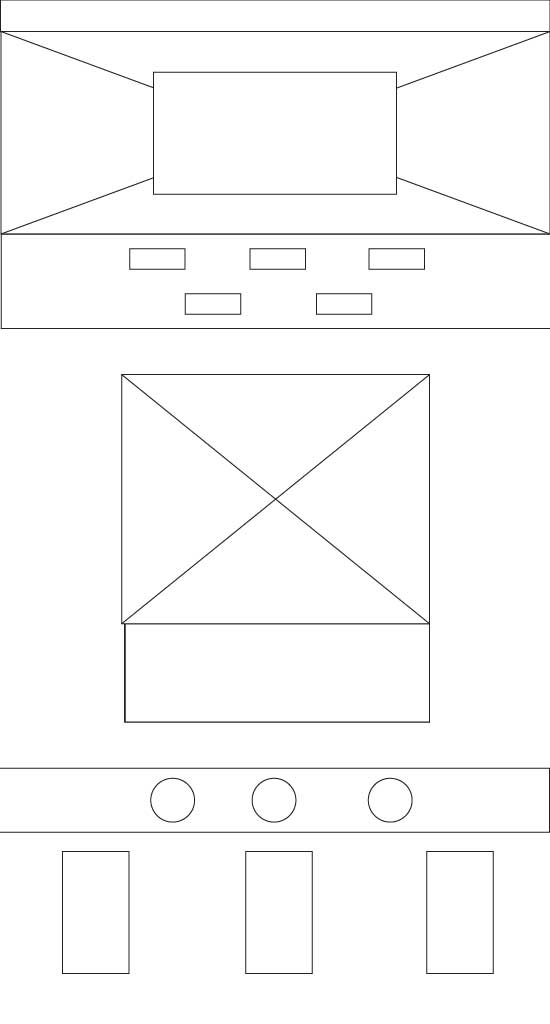
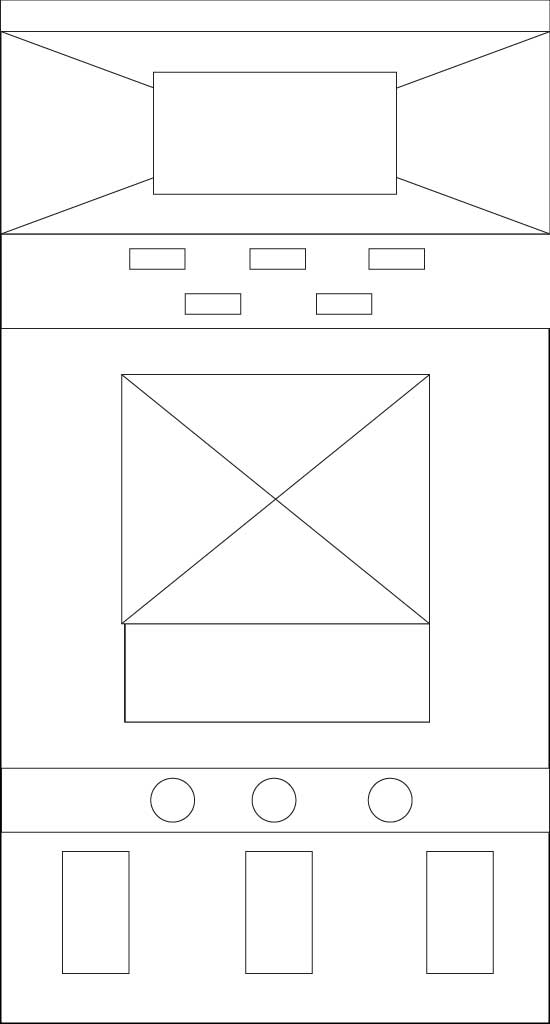
searched image bug fixed

Changed region(s): [[0.0, 0.3125, 0.0309, 1.0], [0.9891, 0.3125, 1.0, 0.75], [0.9891, 0.8125, 1.0, 1.0]]

diff --git a/templates/products.html b/templates/products.html
@@ -36,10 +36,10 @@
             {% for product in products %}
                     <div class="col-lg-3 col-sm-6 mb-4">
                         <div class="card h-60">
-                            <div>
+                            <div class="">
                                 <a href="/selected-product/{{ product.id }}">
                                 {% if product.product_photoURL %}           
-                                    <img class="card-img-top imageHeight img-fluid" src="{{ product.product_photoURL }}" alt=" Item photo">
+                                    <img class="card-img-top imageHeight img-fluid" src="{{ product.product_photoURL }}" alt=" Item image">
                                 {% else %}
                                     <img class="card-img-top imageHeight img-fluid" src="{{ url_for('static', filename='images/blank-img.jpg') }}" alt=" Item photo">
                                 </a>
@@ -61,31 +61,28 @@
 </section>
 <!--SEARCHED RESULT SECTION-->
 <section class="container">
-    <a href="#searchedResult"></a>
     <div id="results" style="display: none" class="row justify-content-start">
-        <div class="col-12 text-center">
+        <div class="col-12 my-auto text-center">
             <h2 class="Titles">Searched result</h2>
         </div>
-        <a href="#">
-            <div class="col-lg-3 col-sm-6 mb-4">
-                <div class="card h-60">
-                    <a href="#">
-                        <img class="card-img-top" id="product_photoURL" src="{{ product_photoURL }}" alt="">
-                    </a>
-                    <div class="card-body" style="padding-top: 5px; padding-bottom: 5px;">
-                        <h5 class="card-title" style="margin-bottom: 5px;">
-                            <span id="product_name"></span>
-                        </h5>
-                        <h6>
-                            <span id="product_price"></span>
-                        </h6>
-                        <P>
-                            <span id="product_description"></span>
-                        </P>
-                    </div>
+        <div class="col-lg-3 col-sm-6 mb-4">
+            <div class="card h-60">
+                <a href="#">
+                    <img class="card-img-top imageHeight img-fluid" id="product-Image" alt="">
+                </a>
+                <div class="card-body" style="padding-top: 5px; padding-bottom: 5px;">
+                    <h5 class="card-title" style="margin-bottom: 5px;">
+                        <span id="product_name"></span>
+                    </h5>
+                    <h6>
+                        <span id="product_price"></span>
+                    </h6>
+                    <P>
+                        <span id="product_description"></span>
+                    </P>
                 </div>
             </div>
-        </a>
+        </div>
     </div>
 </section>
 <!--HOW IT WORKS SECTION-->

diff --git a/templates/base.html b/templates/base.html
@@ -27,7 +27,7 @@
     <header>
         <body>
             <!-- Navigation-->
-            <nav class="navbar navbar-expand-lg navbar-dark bg-dark fixed-top">
+            <nav class="navbar navbar-expand-lg navbar-dark bg-dark">
                 <div class="container">
                     <a class="navbar-brand" href="{{ url_for('get_products') }}">marketSquare</a>
                     <button class="navbar-toggler" type="button" data-toggle="collapse" data-target="#navbarResponsive" aria-controls="navbarResponsive" aria-expanded="false" aria-label="Toggle navigation">
@@ -69,8 +69,8 @@
         {% with messages = get_flashed_messages() %}
             {% if messages %}
                 {% for message in messages %}
-                    <div class="row flashes">
-                        <h4 class="light-blue lighten-4 center-align">{{ message }}</h4>
+                    <div class="row justify-content-center alert-success flashes">
+                        <h4 class="text-center">{{ message }}</h4>
                     </div>
                 {% endfor %}
             {% endif %}

diff --git a/templates/categoryProducts.html b/templates/categoryProducts.html
@@ -28,7 +28,13 @@
         {% for product in products %}
             <div class="col-lg-3 col-sm-6 mb-4">
                 <div class="card h-60">
-                    <a href="/selected-product/{{ product.id }}"><img class="card-img-top imageHeight img-fluid" src="{{ product.product_photoURL }}" alt="" /></a>
+                    <a href="/selected-product/{{ product.id }}">
+                        {% if product.product_photoURL %} 
+                            <img class="card-img-top imageHeight img-fluid" src="{{ product.product_photoURL }}" alt="" />
+                        {% else %}
+                            <img class="card-img-top imageHeight img-fluid" src="{{ url_for('static', filename='images/blank-img.jpg') }}" alt="" />
+                        {% endif %}    
+                    </a>
                     <div class="card-body" style="padding-top: 5px; padding-bottom: 5px;">
                         <h5 class="card-title" style="margin-bottom: 5px;">
                             {{product.product_name}}

diff --git a/templates/listing_page.html b/templates/listing_page.html
@@ -73,7 +73,7 @@
 </div>
 <section class="container-fluid">
     <div class="row howToSection justify-content-center">
-        <h2 class="col-12 col-md-12 my-auto Titles text-center">How It Works</h2>
+        <h2 class="col-12 col-md-12 my-auto Titles text-center" style="padding-top: 20px;">How It Works</h2>
         <div class="col-12 col-md-3 my-auto text-center" style="padding-top: 30px; padding-bottom: 30px;">
             <div class="searchItem mx-auto"></div>
             <p>Search for items</p>
@@ -88,5 +88,4 @@
         </div>
     </div>
 </section>
-
 {% endblock %}

diff --git a/static/js/script.js b/static/js/script.js
@@ -37,7 +37,8 @@ searchForm.addEventListener('submit', (e) => {
             document.getElementById("product_name").innerHTML = product["product_name"]
             document.getElementById("product_description").innerHTML = product["product_description"]
             document.getElementById("product_price").innerHTML = product["product_price"]
-            document.getElementById("product_photoURL").innerHTML = product["product_photoURL"].src
+            document.getElementById("product-Image").src = product["product_photoURL"]
+
         }
     })
 })

diff --git a/templates/register.html b/templates/register.html
@@ -59,6 +59,7 @@
 </div>
 <section class="container-fluid">
     <div class="row howToSection justify-content-center">
+        <h2 class="col-12 col-md-12 my-auto Titles text-center" style="padding-top: 20px;">How It Works</h2>
         <div class="col-12 col-md-3 my-auto text-center" style="padding-top: 30px; padding-bottom: 30px;">
             <div class="searchItem mx-auto"></div>
             <p>Search for items</p>
@@ -72,6 +73,5 @@
             <p>Arrange transaction</p>
         </div>
     </div>
-</section>    
-
+</section>
 {% endblock %}

diff --git a/templates/product.html b/templates/product.html
@@ -55,7 +55,7 @@
 </div>  
 <section class="container-fluid">
     <div class="row howToSection justify-content-center">
-        <h2 class="col-12 col-md-12 my-auto Titles text-center">How It Works</h2>
+        <h2 class="col-12 col-md-12 my-auto Titles text-center" style="padding-top: 20px;">How It Works</h2>
         <div class="col-12 col-md-3 my-auto text-center" style="padding-top: 30px; padding-bottom: 30px;">
             <div class="searchItem mx-auto"></div>
             <p>Search for items</p>

diff --git a/templates/login.html b/templates/login.html
@@ -40,7 +40,7 @@
 </div>
 <section class="container-fluid">
     <div class="row howToSection justify-content-center">
-        <h2 class="col-12 col-md-12 my-auto Titles text-center">How It Works</h2>
+        <h2 class="col-12 col-md-12 my-auto Titles text-center" style="padding-top: 20px;">How It Works</h2>
         <div class="col-12 col-md-3 my-auto text-center" style="padding-top: 30px; padding-bottom: 30px;">
             <div class="searchItem mx-auto"></div>
             <p>Search for items</p>

diff --git a/static/css/style.css b/static/css/style.css
@@ -36,6 +36,10 @@ body {
     text-shadow: 2px 4px 3px rgba(0,0,0,0.3);
 }
 
+.flashes{
+    margin-bottom: auto;
+}
+
 .Listed_Title {
     font-family: "Bellota Text";
     font-weight: bold;
@@ -126,9 +130,14 @@ body {
 }
 
 .imageHeight {
-    display: flex;
-    height: 30vh;
+    object-fit: cover;
 }
+
+imageHeight {
+    min-width: 100%;
+    min-height: 100%;
+    width: auto;
+    height: auto;
 
 .card {
     background-color: #e9ecef;

diff --git a/templates/selected_product.html b/templates/selected_product.html
@@ -86,6 +86,7 @@
 </section>
 <section class="container-fluid">
     <div class="row howToSection justify-content-center">
+        <h2 class="col-12 col-md-12 my-auto Titles text-center" style="padding-top: 20px;">How It Works</h2>
         <div class="col-12 col-md-3 my-auto text-center" style="padding-top: 30px; padding-bottom: 30px;">
             <div class="searchItem mx-auto"></div>
             <p>Search for items</p>

diff --git a/templates/update_profile.html b/templates/update_profile.html
@@ -75,7 +75,4 @@
             </form>
         </div>
 </div>  
-
-
-
 {% endblock %}

diff --git a/app.py b/app.py
@@ -29,6 +29,7 @@ def get_products():
     categories_data = Category.objects().all()
     return render_template("products.html", products=products_data, categories=categories_data)
 
+
 @app.route("/categories/<category_id>/products")
 def get_categories(category_id):
     category_products = ProductListing.objects(category_id=category_id).all()
@@ -173,8 +174,6 @@ def search():
     Search_word = request.args.get("product_name")
     products = ProductListing.objects.search_text(Search_word).all()
     data = [product.serialize for product in products ]
-    print(data)
-    print("testing text")
 
     return jsonify(data)
     
